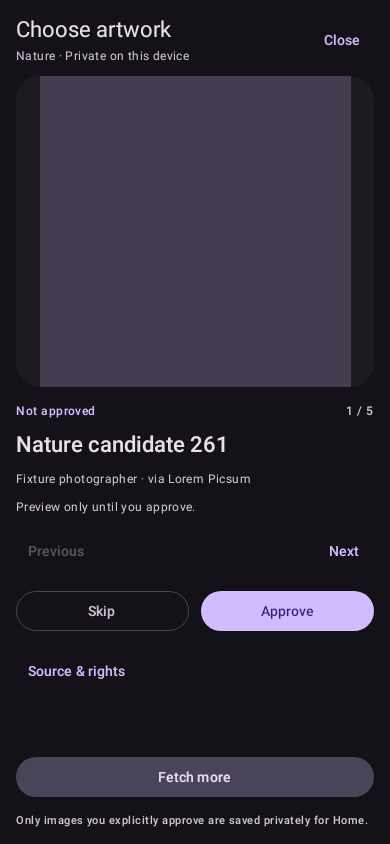
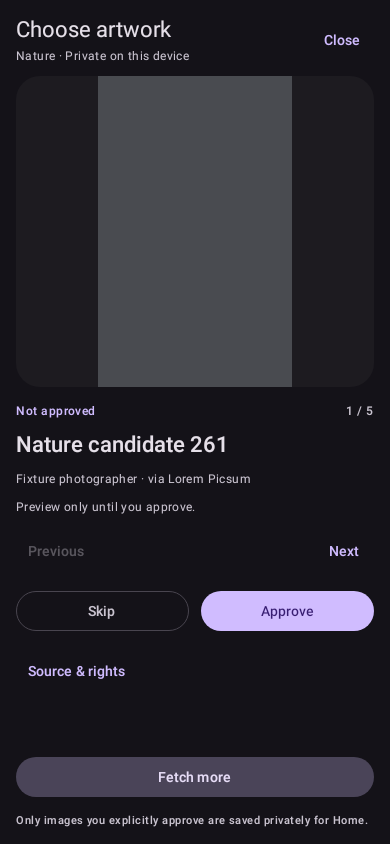
Request portrait artwork and filter landscape chooser results

Changed region(s): [[0.7385, 0.0924, 0.9231, 0.4621], [0.0923, 0.0924, 0.2769, 0.4621]]

diff --git a/core/images/src/commonMain/kotlin/com/starception/submission/core/images/UnreviewedArtwork.kt b/core/images/src/commonMain/kotlin/com/starception/submission/core/images/UnreviewedArtwork.kt
@@ -134,6 +134,7 @@ class ArtworkReviewRepository(
                         .filter { it.id !in approved && it.id !in previouslySeen }
                     val loaded = mutableListOf<UnreviewedArtwork>()
                     var failures = 0
+                    var nonPortrait = 0
                     for (candidate in discoveries.take(15)) {
                         ensureActive()
                         try {
@@ -141,6 +142,7 @@ class ArtworkReviewRepository(
                             val digest = artworkSha256(bytes)
                             if (digest in previousHashes || loaded.any { it.sha256 == digest }) continue
                             val bitmap = decodeArtworkReviewPreview(bytes)
+                            if (bitmap.height <= bitmap.width) { nonPortrait++; continue }
                             loaded += UnreviewedArtwork(candidate.copy(bitmap = bitmap), digest)
                         } catch (cancelled: CancellationException) { throw cancelled }
                         catch (_: Exception) { failures++ }
@@ -151,6 +153,7 @@ class ArtworkReviewRepository(
                             candidates = loaded,
                             error = when {
                                 discoveries.isEmpty() -> "No more candidates on this page. Tap Fetch more to search another page."
+                                loaded.isEmpty() && nonPortrait > 0 -> "No portrait images on this page. Try again to search another page."
                                 loaded.isEmpty() && failures == 0 -> "No new preview images on this page. Tap Fetch more to search another page."
                                 loaded.isEmpty() -> "Could not download the candidate previews. Check your connection and try again."
                                 else -> null
@@ -184,7 +187,7 @@ class ArtworkReviewRepository(
             } catch (cancelled: CancellationException) { throw cancelled }
             catch (_: Exception) { /* An independent source keeps Nature discovery available. */ }
             coroutineContext.ensureActive()
-            val fallback = platform.download("https://api.openverse.org/v1/images/?q=nature%20landscape&license=cc0&page_size=20&page=$page", 2_000_000)
+            val fallback = platform.download("https://api.openverse.org/v1/images/?q=nature&aspect_ratio=tall&license=cc0&page_size=20&page=$page", 2_000_000)
             return Discovery(parseArtworkReviewCandidates(theme, fallback.decodeToString()), "Nature previews supplied by Openverse.")
         }
         val url = when (theme) {
@@ -228,11 +231,17 @@ internal fun parseArtworkReviewCandidates(theme: ArtworkTheme, text: String): Li
         ArtworkTheme.NATURE -> if (root is JsonArray) root.mapNotNull { value ->
             val row = value.jsonObject
             val id = row.string("id")
+            val width = row["width"]?.jsonPrimitive?.intOrNull
+            val height = row["height"]?.jsonPrimitive?.intOrNull
+            if (width != null && height != null && height <= width) return@mapNotNull null
             candidate("picsum-$id", "Nature candidate $id", row.string("author") + " · via Lorem Picsum",
-                row.string("url"), "https://picsum.photos/id/$id/900/1200", "Unsplash License", "https://unsplash.com/license")
+                row.string("url"), "https://picsum.photos/id/$id/900/1600", "Unsplash License", "https://unsplash.com/license")
         } else root.jsonObject["results"]?.jsonArray.orEmpty().mapNotNull { value ->
             val row = value.jsonObject
             if (row.string("license") != "cc0") return@mapNotNull null
+            val width = row["width"]?.jsonPrimitive?.intOrNull
+            val height = row["height"]?.jsonPrimitive?.intOrNull
+            if (width != null && height != null && height <= width) return@mapNotNull null
             val id = row.string("id")
             val thumbnail = row.string("thumbnail").takeIf { allowedArtworkDownload(it) && !artworkReviewMetadataUrl(it) }
                 ?: "https://api.openverse.org/v1/images/$id/thumb/"

diff --git a/app/src/testDemo/kotlin/com/starception/submission/feature/prayertimes/ArtworkReviewRepositoryTest.kt b/app/src/testDemo/kotlin/com/starception/submission/feature/prayertimes/ArtworkReviewRepositoryTest.kt
@@ -29,6 +29,7 @@ internal class ReviewPlatformFixture : ArtworkReviewPlatform {
     var pauseImages: CompletableDeferred<Unit>? = null
     var corruptImages = false
     var oversizedImages = false
+    var landscapeImages = false
     var natureMetadataFailure: Exception? = null
     var pauseNatureMetadata: CompletableDeferred<Unit>? = null
     override suspend fun download(url: String, maximumBytes: Int): ByteArray {
@@ -53,7 +54,7 @@ internal class ReviewPlatformFixture : ArtworkReviewPlatform {
         pauseImages?.await()
         if (corruptImages) return byteArrayOf(1, 2, 3)
         return ByteArrayOutputStream().use { output ->
-            val bitmap = Bitmap.createBitmap(if (oversizedImages) 2000 else 1000, 1000, Bitmap.Config.ARGB_8888)
+            val bitmap = Bitmap.createBitmap(if (oversizedImages) 2000 else if (landscapeImages) 1600 else 1000, if (landscapeImages) 1000 else 1600, Bitmap.Config.ARGB_8888)
             bitmap.eraseColor(Color.rgb(40 + (url.hashCode() and 127), 60 + ((url.hashCode() ushr 8) and 127), 80))
             bitmap.compress(Bitmap.CompressFormat.PNG, 100, output)
             bitmap.recycle()
@@ -67,6 +68,15 @@ internal class ReviewPlatformFixture : ArtworkReviewPlatform {
 @Config(application = Application::class, sdk = [35])
 @GraphicsMode(GraphicsMode.Mode.NATIVE)
 class ArtworkReviewRepositoryTest {
+    @Test fun landscapeResultsAreRejectedEvenWhenTheProviderIgnoresThePortraitRequest() = runTest {
+        val platform = ReviewPlatformFixture().apply { landscapeImages = true }
+        val repository = ArtworkReviewRepository(platform, this, dispatcher = StandardTestDispatcher(testScheduler))
+        repository.fetch(ArtworkTheme.NATURE, allowUnreviewed = true)
+        advanceUntilIdle()
+        assertTrue(repository.state.value.candidates.isEmpty())
+        assertTrue(repository.state.value.error.orEmpty().contains("No portrait images"))
+    }
+
     @Test fun picsumMetadataTimeoutFallsBackToAnIndependentNatureSource() = runTest {
         val platform = ReviewPlatformFixture().apply { natureMetadataFailure = SocketTimeoutException("Synthetic timeout") }
         val repository = ArtworkReviewRepository(platform, this, dispatcher = StandardTestDispatcher(testScheduler))
@@ -76,7 +86,7 @@ class ArtworkReviewRepositoryTest {
         assertNull(repository.state.value.error)
         assertTrue(repository.state.value.notice.orEmpty().contains("Openverse"))
         assertTrue(repository.state.value.candidates.all { it.artwork.id.startsWith("openverse-") && it.artwork.bitmap != null })
-        assertTrue(platform.requests.any { it.startsWith("https://api.openverse.org/v1/images/?") })
+        assertTrue(platform.requests.any { it.startsWith("https://api.openverse.org/v1/images/?") && it.contains("aspect_ratio=tall") })
         assertTrue(platform.requests.any { it.startsWith("https://live.staticflickr.com/") })
         assertFalse(platform.requests.any { it.startsWith("https://picsum.photos/id/") })
     }

diff --git a/core/images/src/commonTest/kotlin/com/starception/submission/core/images/UnreviewedArtworkTest.kt b/core/images/src/commonTest/kotlin/com/starception/submission/core/images/UnreviewedArtworkTest.kt
@@ -38,7 +38,7 @@ class UnreviewedArtworkTest {
         assertEquals("picsum-88", rows.single().id)
         assertTrue(rows.single().artist.contains("Photographer"))
         assertEquals("Unsplash License", rows.single().licenseName)
-        assertEquals("https://picsum.photos/id/88/900/1200", rows.single().imageUrl)
+        assertEquals("https://picsum.photos/id/88/900/1600", rows.single().imageUrl)
         // The runtime feed parser still rejects a candidate without explicit approval.
         assertTrue(parseReviewedArtworkFeed("""{"schemaVersion":1,"artworks":[{"approved":false,"id":"picsum-88"}]}""").isEmpty())
     }
@@ -54,6 +54,15 @@ class UnreviewedArtworkTest {
         assertTrue(artworkReviewMetadataUrl(metadata))
         assertTrue(allowedArtworkReviewDownload(metadata))
         assertFalse(allowedArtworkDownload(metadata))
+    }
+
+    @Test fun knownLandscapeMetadataIsExcludedBeforeDownloadingNatureImages() {
+        val picsum = """[{"id":"88","author":"Photographer","url":"https://unsplash.com/photos/example","width":1600,"height":900}]"""
+        assertTrue(parseArtworkReviewCandidates(ArtworkTheme.NATURE, picsum).isEmpty())
+        val openverse = """{"results":[{"id":"photo","title":"Nature","creator":"Photographer","license":"cc0","width":1600,"height":900}]}"""
+        assertTrue(parseArtworkReviewCandidates(ArtworkTheme.NATURE, openverse).isEmpty())
+        assertEquals(1, parseArtworkReviewCandidates(ArtworkTheme.NATURE,
+            openverse.replace("\"width\":1600,\"height\":900", "\"width\":900,\"height\":1600")).size)
     }
 
     @Test fun unsafeCandidateIdsAndSourceLinksAreRejected() {

diff --git a/core/images/artwork/REVIEWED_ISLAMIC_ARTWORK.md b/core/images/artwork/REVIEWED_ISLAMIC_ARTWORK.md
@@ -40,6 +40,13 @@ keeps its existing cover treatment.
 
 ### Personal artwork gallery
 
+New chooser batches contain portrait images only. Nature discovery asks Openverse
+for `aspect_ratio=tall`, excludes known landscape/square source metadata, and
+requests Picsum renditions at 900×1600. Every downloaded preview is checked again:
+its height must exceed its width, including results from other themes or providers
+that ignore orientation filters. Existing approved collections remain stored;
+approve new portrait images to replace their landscape artwork.
+
 Settings → Appearance → Home artwork has a **Choose artwork** action. Opening it
 starts the preview gallery directly and fetches candidates from Picsum (Nature,
 with an independent Openverse fallback),
